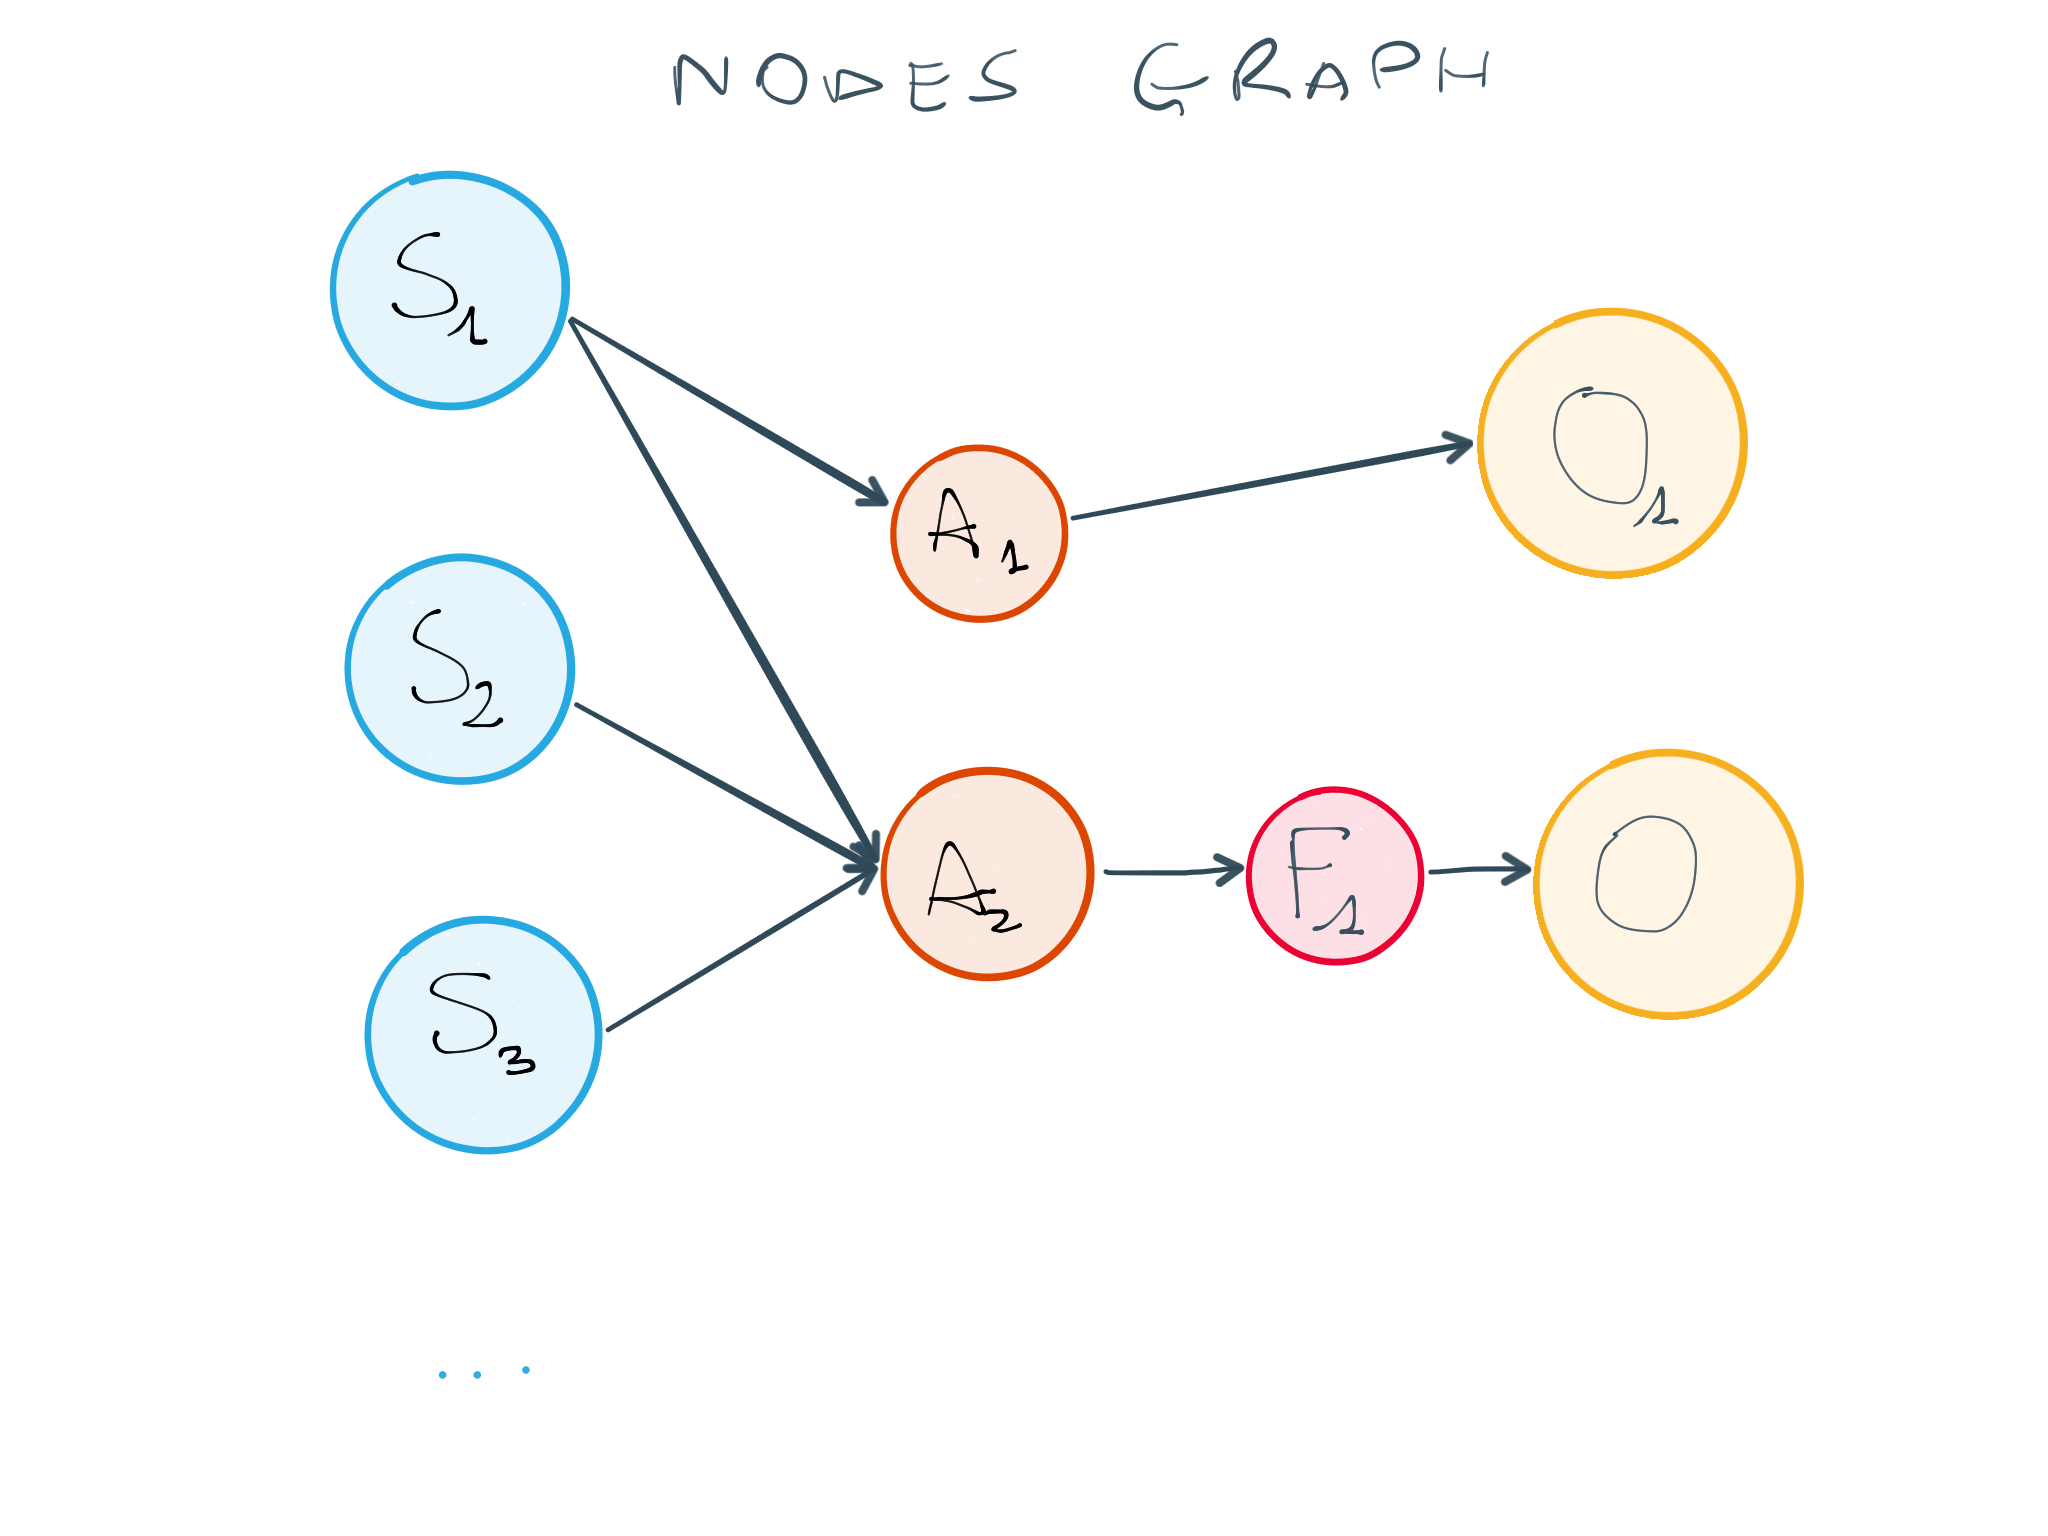
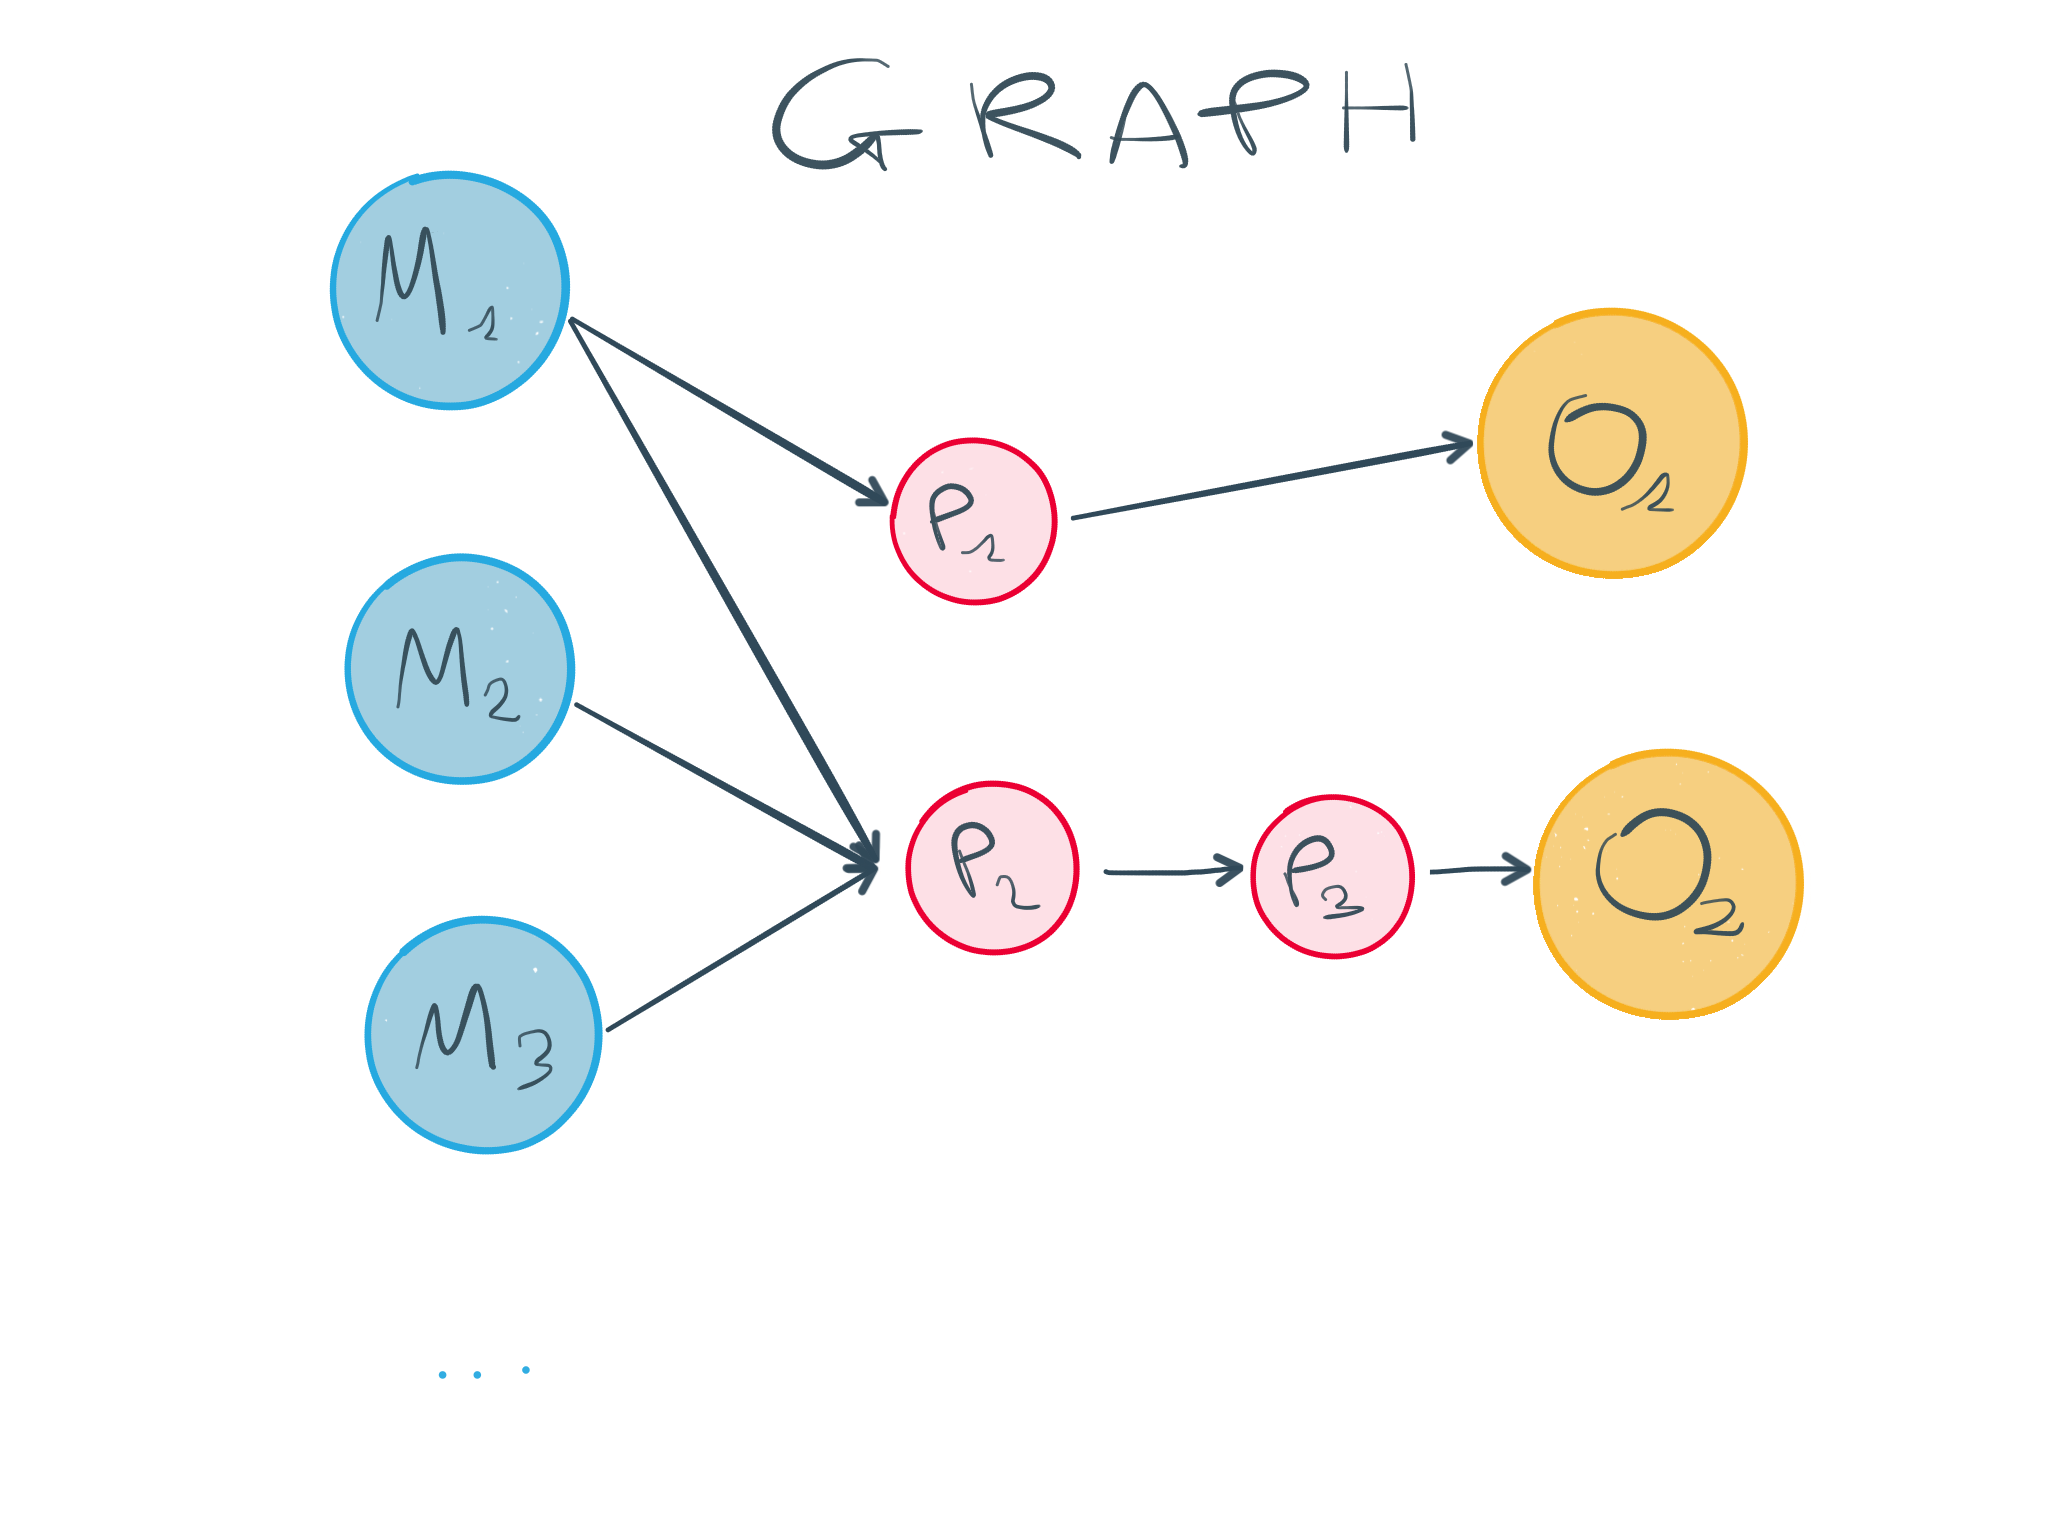
Changed terminology in architecture doc

diff --git a/docs/architecture.rst b/docs/architecture.rst
@@ -5,14 +5,14 @@ Processing graph
 ----------------
 
 The core processing engine of MineMeld is based on DAG of nodes. Indicators
-are retrieved by source nodes (Sx in the pictures) and then pushed to
+are retrieved by miner nodes (Mx in the pictures) and then pushed to
 downstream nodes via *update* messages. When an indicator stop being considered
 live, it is withdrawn sending a *withdraw* message to downstream nodes.
 
 Typically each node maintains its own table of live indicators, where the
-definition of *live* could change according to the node implementation. The
-processing engine could be thought as a graph of continuosly updating
-materialized views.
+definition of *live indicator* could change according to the node
+implementation. The processing engine could be thought as a graph of
+continuosly updating materialized views.
 
 .. image:: images/dag.png
 
@@ -20,7 +20,7 @@ Node
 ----
 
 Each node could have 0 or more inputs and 0 or more output. Rather obviuosly
-if a node has 0 inputs it is considered a source node, if a node has 0 ouput
+if a node has 0 inputs it is considered a miner node, if a node has 0 ouput
 it is considered an output node.
 
 Each node also offers a RPC interface, for directed out of band requests, and
